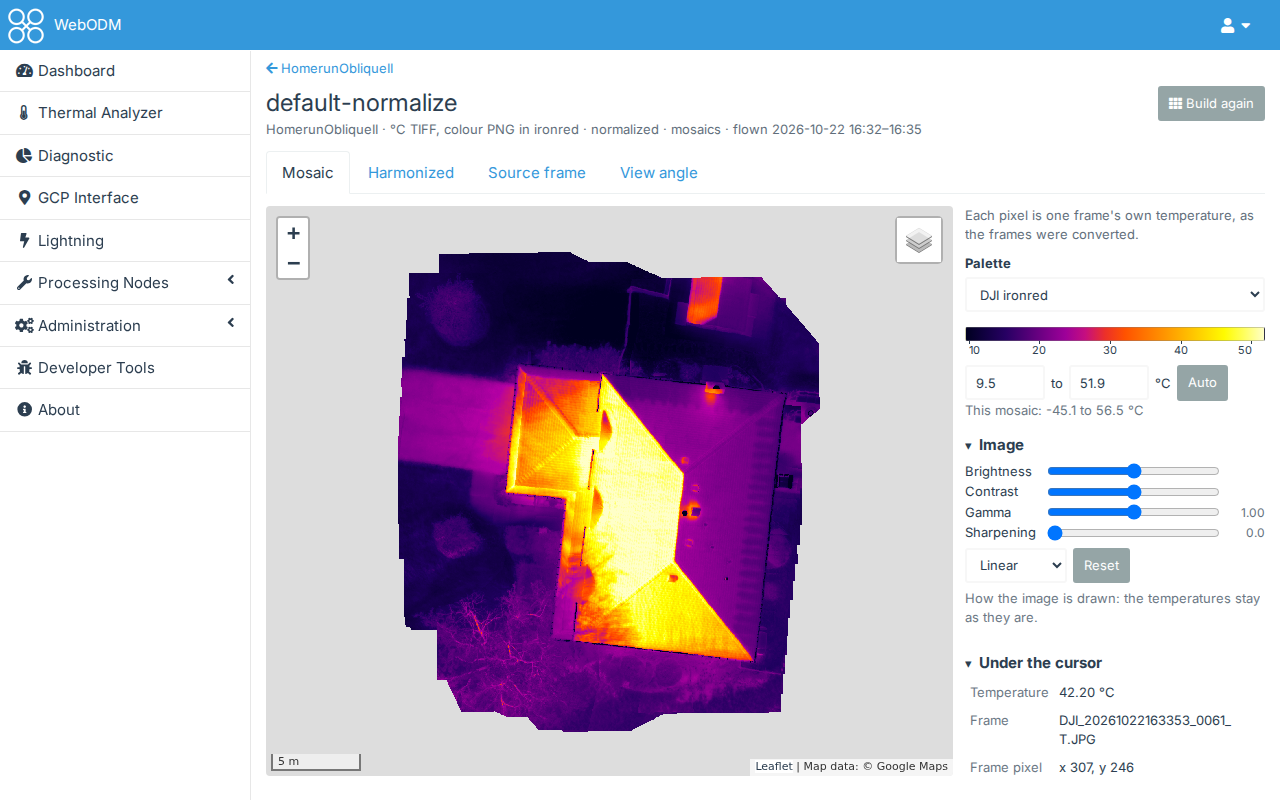
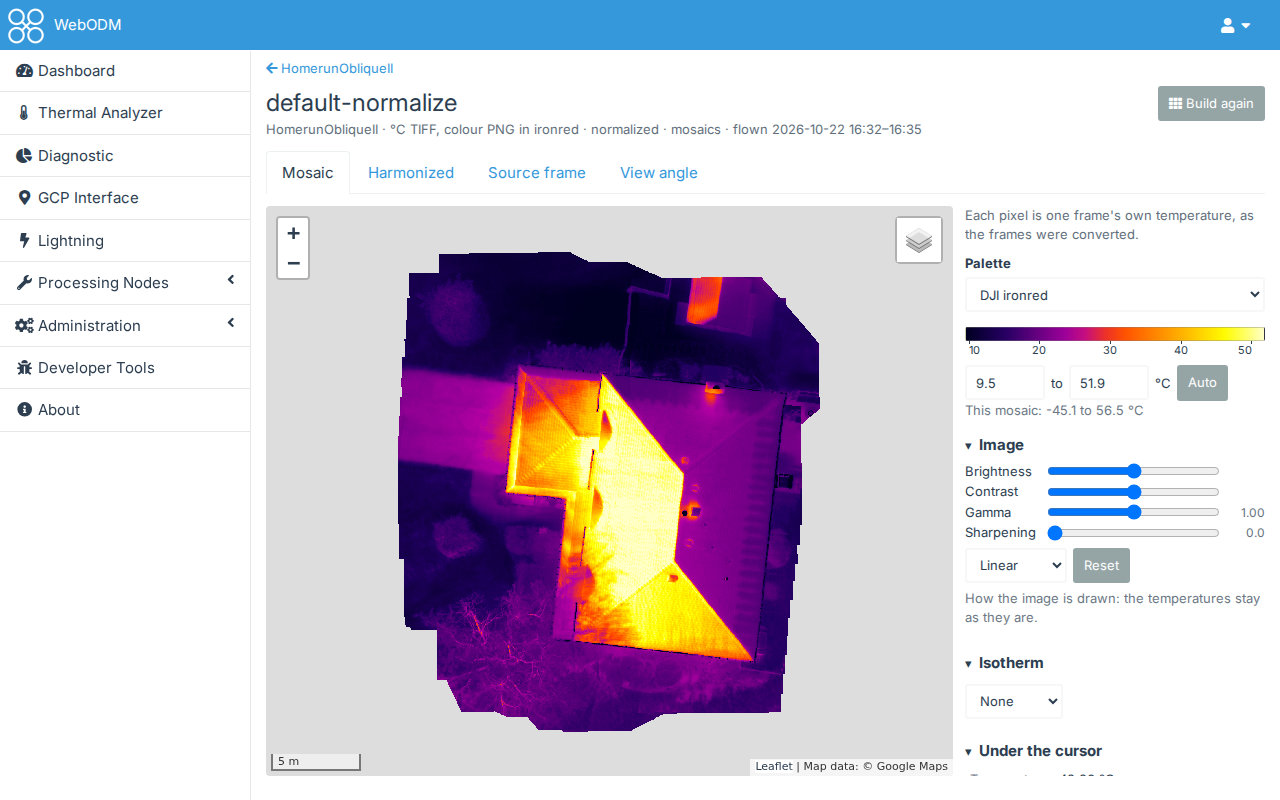
Mosaic viewer: an Isotherm section, its temperatures in the palette and the rest grey
As dji-thermal-ui's isotherm (parse_isotherm, isotherm_range, isothermParam): drawn by the server into the
temperature tabs' tiles and the frames' pictures.

Changed region(s): [[0.75, 0.8125, 0.9688, 0.9688]]

diff --git a/dji-thermal/public/viewer.js b/dji-thermal/public/viewer.js
@@ -38,6 +38,25 @@
 
     function defaultAdjust() { return {gamma: 1, equalize: false, sharpen: 0}; }
 
+    var ISOTHERM_MODES = [["", "None"], ["above", "Above"], ["below", "Below"], ["between", "Between"]];
+
+    // An isotherm typed (mode, and its temperatures in the user's unit) as the server takes it, in the mosaic's unit
+    // ("above,T", "below,T", "between,A,B"; "" for none): {value} or {error} (from dji-thermal-ui's isothermParam)
+    function isothermParam(mode, a, b, unit) {
+        if (!mode) return {value: ""};
+        var x = parseFloat(a), y = parseFloat(b);
+        if (isNaN(x)) return {error: "The isotherm needs a temperature"};
+        if (mode !== "between") return {value: mode + "," + typedTemp(x, unit)};
+        if (isNaN(y)) return {error: "The isotherm needs two temperatures"};
+        if (!(y > x)) return {error: "The second temperature must be above the first"};
+        return {value: "between," + typedTemp(x, unit) + "," + typedTemp(y, unit)};
+    }
+
+    // The isotherm of a style as a query, on the temperature tabs
+    function isothermQuery(tab, style) {
+        return isTemperature(tab) && style.isotherm && style.isotherm.value ? "&isotherm=" + encodeURIComponent(style.isotherm.value) : "";
+    }
+
     // The adjustments as a query (&gamma=&equalize=1&sharpen=), those not as by default
     function adjustQuery(adjust) {
         if (!adjust) return "";
@@ -149,7 +168,7 @@
     function tileUrl(base, tab, style, builtAt) {
         var query = ["v=" + encodeURIComponent(builtAt || ""), "color_map=" + encodeURIComponent(style.palette),
                      "rescale=" + style.range[0] + "," + style.range[1]];
-        return base + "/mosaics/" + tab + "/tiles/{z}/{x}/{y}.png?" + query.join("&") + adjustQuery(style.adjust);
+        return base + "/mosaics/" + tab + "/tiles/{z}/{x}/{y}.png?" + query.join("&") + adjustQuery(style.adjust) + isothermQuery(tab, style);
     }
 
     // One of the mosaic's frames as the tab draws it (its temperatures, or on View angle its pixels' angles), with the
@@ -157,7 +176,7 @@
     function frameUrl(base, tab, index, style, builtAt) {
         var query = ["v=" + encodeURIComponent(builtAt || ""), "color_map=" + encodeURIComponent(style.palette),
                      "rescale=" + style.range[0] + "," + style.range[1]];
-        return base + "/mosaics/" + tab + "/frames/" + index + ".png?" + query.join("&") + adjustQuery(style.adjust);
+        return base + "/mosaics/" + tab + "/frames/" + index + ".png?" + query.join("&") + adjustQuery(style.adjust) + isothermQuery(tab, style);
     }
 
     // The window of the frames that saw a point (pick: {frames, models, at: the one shown}), the frame drawn from url
@@ -218,7 +237,24 @@
         if (s) out += '<div class="ta-message">This mosaic: ' +
             core.formatNumber(temperature ? core.convertTemp(s.min, unit) : s.min, 1) + " to " +
             core.formatNumber(temperature ? core.convertTemp(s.max, unit) : s.max, 1, " " + symbol) + "</div>";
-        return out + imageHtml(tab, style, unit);
+        return out + imageHtml(tab, style, unit) + (temperature ? isothermHtml(style) : "");
+    }
+
+    // The isotherm: its temperatures keep the palette, the rest is grey (as dji-thermal-ui's)
+    function isothermHtml(style) {
+        var iso = style.isotherm || {mode: "", a: "", b: ""}, mode = iso.mode;
+        return '<details class="ta-section" open data-section="isotherm"><summary><h5>Isotherm</h5></summary>' +
+            '<div class="ta-viewer-isotherm"><select class="form-control input-sm" id="ta-viewer-iso-mode" aria-label="Isotherm">' +
+            ISOTHERM_MODES.map(function (m) {
+                return '<option value="' + m[0] + '"' + (m[0] === mode ? " selected" : "") + ">" + m[1] + "</option>";
+            }).join("") + "</select>" +
+            '<input type="number" step="0.1" class="form-control input-sm" id="ta-viewer-iso-a" title="Temperature" aria-label="Temperature"' +
+            (mode ? "" : " hidden") + ' value="' + esc(iso.a) + '">' +
+            '<input type="number" step="0.1" class="form-control input-sm" id="ta-viewer-iso-b" title="Up to" aria-label="Up to"' +
+            (mode === "between" ? "" : " hidden") + ' value="' + esc(iso.b) + '">' +
+            '<span id="ta-viewer-iso-unit"' + (mode ? "" : " hidden") + ">" + esc(core.unitSymbol(core.userUnit())) + "</span></div>" +
+            '<div class="text-danger" id="ta-viewer-iso-error"></div>' +
+            '<p class="ta-message" id="ta-viewer-iso-hint"' + (mode ? "" : " hidden") + ">Its pixels keep the palette, the rest is grey.</p></details>";
     }
 
     // How the image is drawn: brightness and contrast move the range, gamma and the tone curve share out the colours,
@@ -358,7 +394,7 @@
         function style() {
             var g = styleGroup(tab);
             if (!styles[g]) styles[g] = {palette: isTemperature(tab) ? v.default_palette : "inferno", range: defaultRange(current(), v.unit),
-                                         adjust: defaultAdjust(), curve: null};
+                                         adjust: defaultAdjust(), curve: null, isotherm: {mode: "", a: "", b: "", value: ""}};
             return styles[g];
         }
 
@@ -593,6 +629,7 @@
                 showRange();
                 return restyle();
             }
+            if (/^ta-viewer-iso-(mode|a|b)$/.test(e.target.id)) return isotherm();
             if (e.target.id === "ta-viewer-tone") {
                 style().adjust.equalize = e.target.value === "equalize";
                 return restyle();
@@ -603,6 +640,22 @@
                 restyle();
             }
         });
+
+        // The isotherm typed: its fields shown for its mode, drawn once it is complete
+        function isotherm() {
+            var iso = style().isotherm, mode = $("ta-viewer-iso-mode").value;
+            iso.mode = mode;
+            iso.a = $("ta-viewer-iso-a").value;
+            iso.b = $("ta-viewer-iso-b").value;
+            $("ta-viewer-iso-a").hidden = $("ta-viewer-iso-unit").hidden = $("ta-viewer-iso-hint").hidden = !mode;
+            $("ta-viewer-iso-b").hidden = mode !== "between";
+            var r = isothermParam(mode, iso.a, iso.b, v.unit);
+            // Not an error yet while a temperature is still to be typed
+            $("ta-viewer-iso-error").textContent = r.error && (iso.a !== "" || mode === "between" && iso.b !== "") ? r.error : "";
+            if (r.error || r.value === iso.value) return;
+            iso.value = r.value;
+            restyle();
+        }
 
         // A slider moved: brightness and contrast move the range from the Auto one, gamma and sharpening the adjustments
         function slide(input) {
@@ -670,7 +723,7 @@
                frameUrl: frameUrl, pipHtml: pipHtml, READOUT_HINT: READOUT_HINT, tabsHtml: tabsHtml, controlsHtml: controlsHtml, readoutHtml: readoutHtml, reportHtml: reportHtml, statusHtml: statusHtml,
                baseLayers: baseLayers, loadLeaflet: loadLeaflet, init: init, adjustQuery: adjustQuery, toneShares: toneShares,
                slidRange: slidRange, sliderPositions: sliderPositions, sliderGamma: sliderGamma, gammaSlider: gammaSlider,
-               SLIDERS: SLIDERS, imageHtml: imageHtml};
+               SLIDERS: SLIDERS, imageHtml: imageHtml, isothermParam: isothermParam, isothermHtml: isothermHtml};
     root.ThermalAnalyzerViewer = api;
     if (typeof module !== "undefined" && module.exports) module.exports = api;
 })(typeof window !== "undefined" ? window : {});

diff --git a/dji-thermal/public/analyzer.css b/dji-thermal/public/analyzer.css
@@ -258,6 +258,10 @@
 .ta-viewer .ta-slider-value{ text-align: right; opacity: .75; font-size: 12px; }
 .ta-viewer .ta-viewer-tone{ display: flex; gap: 6px; margin: 6px 0; }
 .ta-viewer .ta-viewer-tone select{ width: auto; }
+.ta-viewer .ta-viewer-isotherm{ display: flex; gap: 6px; align-items: center; margin: 6px 0; }
+.ta-viewer .ta-viewer-isotherm select{ width: auto; }
+.ta-viewer .ta-viewer-isotherm input{ width: 80px; }
+.ta-viewer .ta-viewer-isotherm [hidden]{ display: none; }
 .ta-viewer .ta-legend-ticks{ position: relative; height: 16px; font-size: 11px; line-height: 1; }
 .ta-viewer .ta-tick{ position: absolute; top: 4px; transform: translateX(-50%); white-space: nowrap; }
 .ta-viewer .ta-tick::before{ content: ""; position: absolute; left: 50%; top: -4px; height: 3px; border-left: 1px solid currentColor; }

diff --git a/dji-thermal/mosaics.py b/dji-thermal/mosaics.py
@@ -434,10 +434,10 @@ def png(rgba):
     return render(np.moveaxis(rgba[..., :3], 2, 0), rgba[..., 3], img_format='PNG')
 
 
-def tile(task, cid, tab, z, x, y, cmap, low, high, adjust=None):
+def tile(task, cid, tab, z, x, y, cmap, low, high, adjust=None, isotherm=None):
     """
     A tile of a viewer tab as PNG bytes: temperatures and view angles over low..high in cmap, drawn with the adjustments
-    (colouring); the source frames as the temperatures with black and white lines where one frame meets the next;
+    and the isotherm (colouring: its temperatures in the palette, the rest in grey); the source frames as the temperatures with black and white lines where one frame meets the next;
     never interpolated (nearest pixel).
     :return: None when the tile is outside the mosaic
     :raises ValueError: equalize asked on a tab of no temperatures
@@ -475,7 +475,8 @@ def tile(task, cid, tab, z, x, y, cmap, low, high, adjust=None):
         valid &= data > low_value(built.get('unit') or 'C')
     gsd = ((built.get('kinds') or {}).get(tab_kind(tab)) or {}).get('gsd_m')
     rgba = colouring.colour(np.where(valid, data, np.nan), palette_colors(cmap), (low, high), tone, adjust['sharpen'],
-                            sigma=colouring.sharpen_sigma(gsd, tile_pixel_m(z, y)), margin=buffer)
+                            colouring.isotherm_range(isotherm), sigma=colouring.sharpen_sigma(gsd, tile_pixel_m(z, y)),
+                            margin=buffer)
     if framed:
         frames = np.asarray(t.data[1], dtype=np.float64)
         first, second = seams(np.rint(np.where(np.isfinite(frames), frames, -1)), valid & np.isfinite(frames))
@@ -637,11 +638,11 @@ def frame_values(task, cid, tab, index):
     return values
 
 
-def frame_image(task, cid, tab, index, cmap, low, high, adjust=None):
-    """A frame as frame_values gives it, over low..high in cmap, drawn as the tab's tiles are (its mosaic's curve), as
-    PNG bytes"""
+def frame_image(task, cid, tab, index, cmap, low, high, adjust=None, isotherm=None):
+    """A frame as frame_values gives it, over low..high in cmap, drawn as the tab's tiles are (its mosaic's curve, the
+    isotherm), as PNG bytes"""
     from . import colouring
     adjust = adjust or NO_ADJUST
     tone = shares(task, cid, tab, low, high, adjust)
     return png(colouring.colour(frame_values(task, cid, tab, index), palette_colors(cmap), (low, high), tone,
-                                adjust['sharpen']))
+                                adjust['sharpen'], colouring.isotherm_range(isotherm)))

diff --git a/dji-thermal/analyzer_api.py b/dji-thermal/analyzer_api.py
@@ -635,7 +635,8 @@ class MosaicTile(DatasetView):
     def get(self, request, pk, cid, tab, z, x, y):
         """
         A PNG tile of a viewer tab: temperatures and view angles over rescale=min,max with color_map (one of the
-        viewer's palettes) and the adjustments (gamma, equalize=1 on temperatures, sharpen), the source frames as the
+        viewer's palettes), the adjustments (gamma, equalize=1 on temperatures, sharpen) and on temperatures an isotherm
+        (above,T, below,T or between,A,B: its temperatures in the palette, the rest in grey), the source frames as the
         temperatures with lines between the frames. The viewer's URL carries the mosaics' build time, so a tile is
         cached until they are built again.
         """
@@ -648,7 +649,7 @@ class MosaicTile(DatasetView):
 
 
 def mosaic_style(request, task, cid, tab):
-    """A viewer image's colour map, range and adjustments from its query: (cmap, low, high, adjust)"""
+    """A viewer image's colour map, range, adjustments and isotherm from its query: (cmap, low, high, adjust, isotherm)"""
     settings = conversions.record(task, cid).get('settings') or {}
     try:
         cmap = mosaics.colormap(task, cid, request.query_params.get('color_map') or
@@ -656,7 +657,19 @@ def mosaic_style(request, task, cid, tab):
     except ValueError as e:
         raise ValidationError({'error': str(e)}) from None
     low, high = mosaic_range(request)
-    return cmap, low, high, mosaic_adjust(request, tab)
+    return cmap, low, high, mosaic_adjust(request, tab), mosaic_isotherm(request, tab)
+
+
+def mosaic_isotherm(request, tab):
+    """A viewer request's isotherm (colouring.parse_isotherm), only on temperatures"""
+    from . import colouring
+    try:
+        isotherm = colouring.parse_isotherm(request.query_params.get('isotherm'))
+    except ValueError as e:
+        raise ValidationError({'error': str(e)}) from None
+    if isotherm and not mosaics.is_temperature(tab):
+        raise ValidationError({'isotherm': "Only temperatures have an isotherm"})
+    return isotherm
 
 
 def mosaic_range(request):

diff --git a/dji-thermal/colouring.py b/dji-thermal/colouring.py
@@ -28,6 +28,7 @@ SHARPEN_LIMITS = (0.0, 5.0)
 EQUALIZE_BINS = 1024
 EQUALIZE_SPAN = (0.1, 99.9)     # the percentiles a mosaic's histogram spans: its outliers would empty all its bins but one
 CURVE_SAMPLES = 65
+ISOTHERM_MODES = ('above', 'below', 'between')
 HISTOGRAMS_KEPT = 16      # the mosaics' histograms kept in memory
 
 _histograms = {}
@@ -157,6 +158,39 @@ def parse_adjust(params):
         raise ValueError("equalize is 1 or 0")
     return {'gamma': ranged('gamma', "Gamma", GAMMA_LIMITS, 1.0), 'equalize': equalize == '1',
             'sharpen': ranged('sharpen', "Sharpening", SHARPEN_LIMITS, 0.0)}
+
+
+def parse_isotherm(value):
+    """
+    "above,T", "below,T" or "between,A,B" as (mode, low, high): the values above low, below high or between both;
+    None when value is empty
+    :raises ValueError: not one of them (the message is for the user)
+    """
+    if value is None or value == "":
+        return None
+    parts = str(value).split(',')
+    mode = parts[0]
+    if mode not in ISOTHERM_MODES or len(parts) != (3 if mode == 'between' else 2):
+        raise ValueError("The isotherm is above,T or below,T or between,A,B")
+    try:
+        values = [float(p) for p in parts[1:]]
+    except ValueError:
+        raise ValueError("The isotherm's temperature is not a number") from None
+    if mode == 'above':
+        return mode, values[0], None
+    if mode == 'below':
+        return mode, None, values[0]
+    if not values[1] > values[0]:
+        raise ValueError("The isotherm's second temperature must be above the first")
+    return mode, values[0], values[1]
+
+
+def isotherm_range(isotherm):
+    """parse_isotherm's (mode, low, high) as the values inside it, as colour takes it, or None"""
+    if not isotherm:
+        return None
+    _mode, low, high = isotherm
+    return (-3e38 if low is None else low, 3e38 if high is None else high)
 
 
 def value_histogram(values, span=None):

diff --git a/docs/api.md b/docs/api.md
@@ -33,7 +33,7 @@ workset's id (12 hexadecimal characters).
 | GET, POST | `.../conversions/<workset>/task` | What a task from the workset would be (the plan's options, what stops it); makes the task. |
 | POST | `.../conversions/<workset>/parent` | Sends the workset's TIFFs to the dataset's own task. |
 | GET, POST | `.../conversions/<workset>/mosaics` | The mosaics as the viewer shows them; builds them. |
-| GET | `.../mosaics/<tab>/tiles/<z>/<x>/<y>.png` | A map tile of a mosaic tab, over `rescale=min,max` in `color_map`, drawn with `gamma` (0.2 to 5), `sharpen` (0 to 5) and `equalize=1` (temperatures only); the same for a frame's picture. |
+| GET | `.../mosaics/<tab>/tiles/<z>/<x>/<y>.png` | A map tile of a mosaic tab, over `rescale=min,max` in `color_map`, drawn with `gamma` (0.2 to 5), `sharpen` (0 to 5), and on temperatures `equalize=1` and `isotherm` (`above,T`, `below,T` or `between,A,B`, in the mosaic's unit: those pixels in the palette, the rest grey); the same for a frame's picture. |
 | GET | `.../mosaics/<tab>/curve?rescale=&gamma=&equalize=` | How the tab's images are drawn, for the colour scale: the palette's share at 65 values evenly across the range. |
 | GET | `.../mosaics/<tab>/point?lon=&lat=` | The temperature, frame, frame pixel (the frame's column and row) and view angle at a point. |
 | GET | `.../mosaics/<tab>/frames?lon=&lat=`, `.../frames/<index>.png` | The frames that saw a point; one frame's picture. |

diff --git a/docs/quickstart-worksets.md b/docs/quickstart-worksets.md
@@ -64,7 +64,8 @@ The panel on the right sets the palette and the colour range (**Auto** uses the 
 **Image** how the image is drawn: **Brightness** and **Contrast** move and narrow the range, **Gamma** brightens the
 cooler part of it (above 1) or the warmer part (below 1), **Sharpening** brings out edges, **Equalized** spreads the
 colours over the temperatures the mosaic has most of, and **Reset** goes back to the Auto range with none of them.
-They only change how the image is drawn, never the temperatures. It shows the
+They only change how the image is drawn, never the temperatures. An **Isotherm** (above, below or between
+temperatures) keeps the palette for the pixels in it and turns the rest grey. It shows the
 temperature, frame, frame pixel and view angle under the cursor, what dji-thermal-cli reports about the mosaic (seams,
 misalignment, frame offsets), and the files to download.
 

diff --git a/README.md b/README.md
@@ -157,6 +157,8 @@ over WebODM's base layers:
   mosaic has most of; temperatures only) and **Reset**, drawn into the tiles and the frames' pictures, with the colour
   scale drawn to match; the temperatures stay as they are. The temperature tabs share them, and each visit starts
   without them;
+- an **Isotherm** on the temperature tabs (above, below or between temperatures): its pixels keep the palette and the
+  rest turns grey, on the map and in the frames' pictures;
 - the temperature, frame, frame pixel and view angle under the cursor;
 - a click on the map keeps those values at that point, marked, until **Follow the cursor** (or Esc), and opens a
   window over the map with the **frames that saw that point** (the mosaic's own first, the
